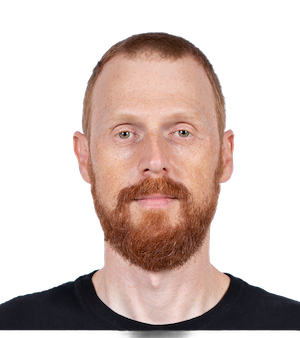
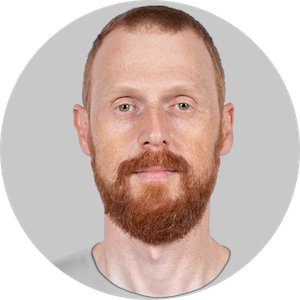
feat: remove photo

diff --git a/index.html b/index.html
@@ -572,9 +572,9 @@
 
         <section id="author-section" class="author-section section theme-bg-primary py-5">
             <div class="container py-3">
-                <div class="author-profile text-center mb-5">
+                <!-- <div class="author-profile text-center mb-5">
                     <img class="author-pic" src="assets/images/profiles/author-profile.png" alt="image" />
-                </div>
+                </div> -->
                 <!--//author-profile-->
                 <h2 class="section-heading text-center text-white mb-3">Sobre o autor</h2>
                 <div class="author-bio single-col-max mx-auto">
